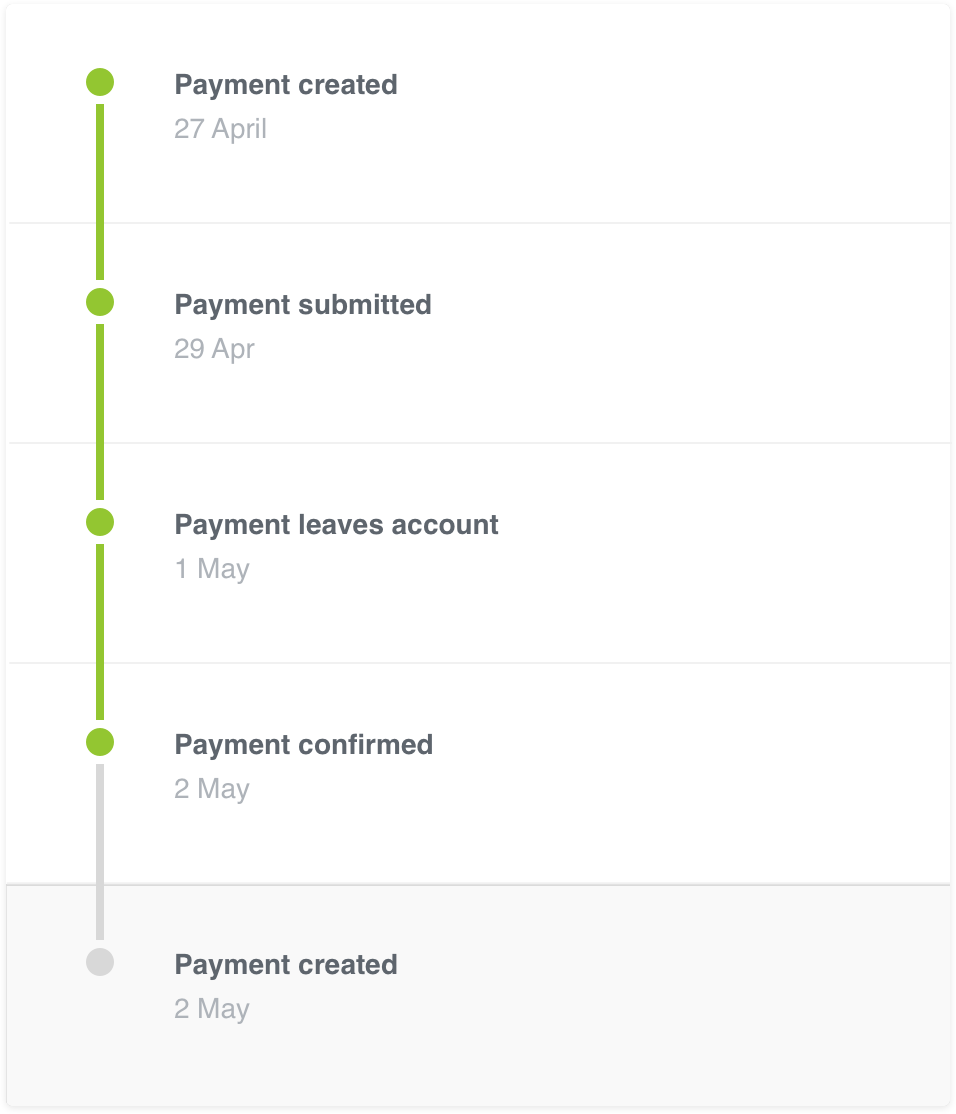
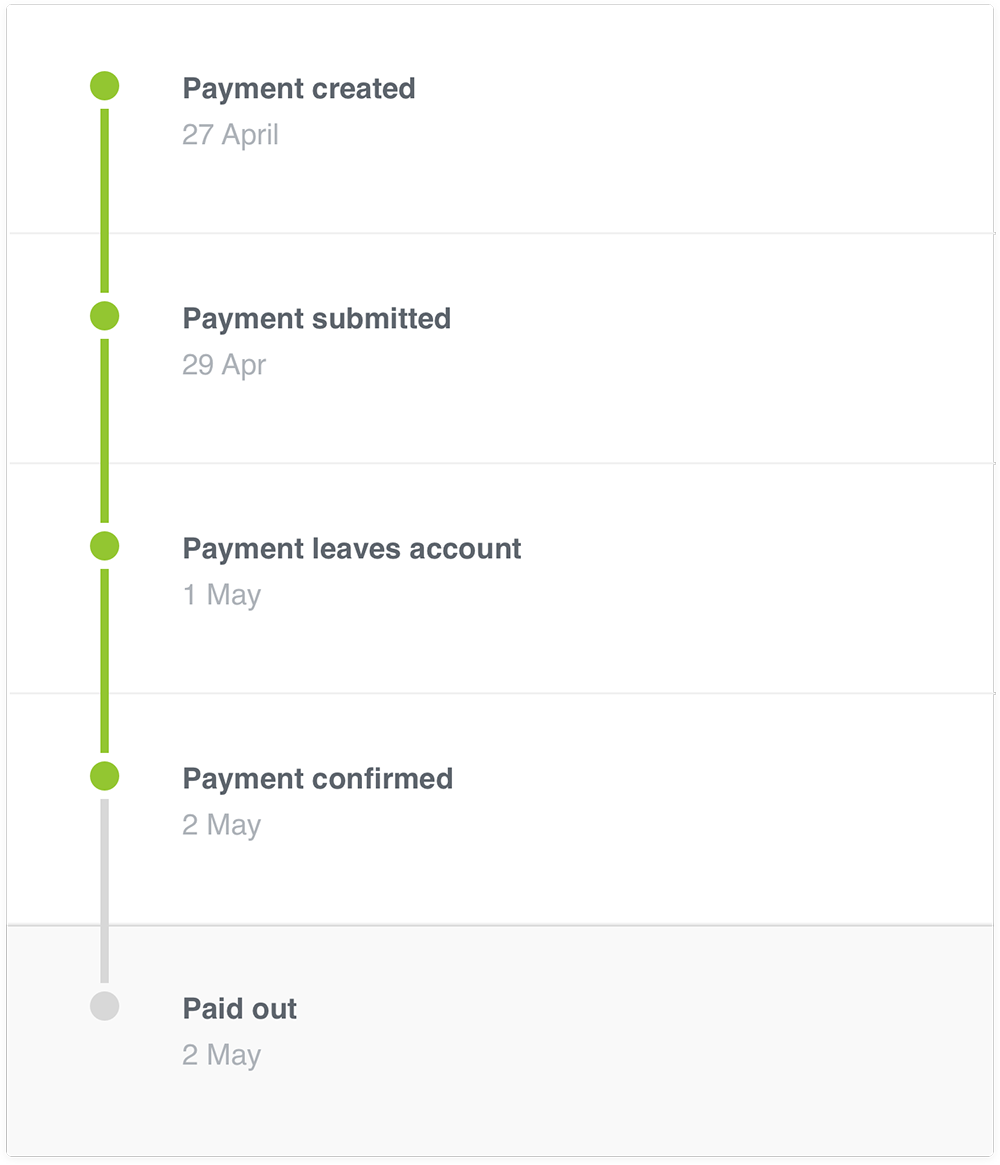
Fixing features - image text & example checkout link

diff --git a/app/pages/features/index.html b/app/pages/features/index.html
@@ -182,7 +182,7 @@
           <i class="features-container__icon--cart u-margin-Bs"></i>
           <h3>Add a checkout button to your site</h3>
           <p class="u-11of12 u-center u-text-h3">We provide you with your own branded online payment page.<br>
-          <a href="https://sandbox.gocardless.com/connect/bills/new?bill%5Bamount%5D=2.99&bill%5Bdescription%5D=One-off%20payment%20%28e.g.%2C%20to%20register%20a%20domain%20name%29&bill%5Bmerchant_id%5D=49&bill%5Bname%5D=Example%20One-Off%20Payment&client_id=rdk6CODM0n40VWW%2BDk0NGxWcSReYTTpPx2AR%2FwCnMKnXfKyYXqQYgtnJ67M%2B2vzG&nonce=%2FOHIaCcvlywR5299TuzJoXSDo6ilMIOF4AouSuyMwofj7XUAi9%2Fe6QxkJnTn&signature=91ea84ca056be927363e960f36d11752e615e02c1d0e41f1d3d180599a90f7e4&timestamp=2014-06-02T16%3A21%3A50Z" class="u-link-invert u-text-underline u-text-h3" target="_blank">See an example</a></p>
+          <a href="/example-checkout" class="u-link-invert u-text-underline u-text-h3" target="_blank">See an example</a></p>
         </div>
         <div class="grid__cell u-1of3 u-text-center">
           <i class="features-container__icon--database u-margin-Bs"></i>
